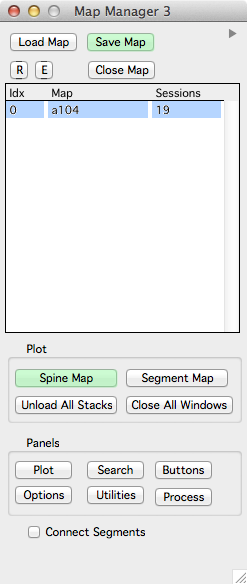
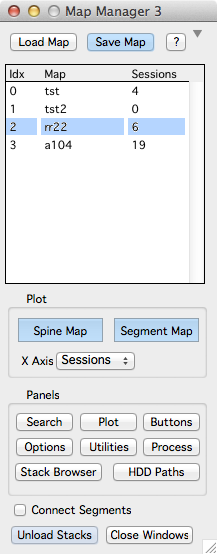
xxx

Changed region(s): [[0.0, 0.0, 1.0, 0.9819], [0.9401, 0.9819, 0.9954, 1.0]]

diff --git a/_site/making-a-map/index.html b/_site/making-a-map/index.html
@@ -86,6 +86,9 @@
             
                 <li class=nav-header>Interface Windows</li>
             
+            <li data-order="5"><a href="/mapmanager/hdd-paths">Hard Drive Paths</a></li>
+        
+            
             <li data-order="3"><a href="/mapmanager/stackdb-options-panel">Stack DB Options</a></li>
         
             
@@ -146,37 +149,58 @@
     </h3>
 </div>
 
-<p><IMG class="img-float-left" SRC="../images/mm3/mm3-main-panel.png" WIDTH="700"></p>
+<p><IMG class="img-float-left" SRC="../images/mm3/mm3-main-panel.png" WIDTH="600"></p>
 
 <div class="print-page-break"></div>
 
 <p>A map is a sequence of <a href="/mapmanager/stack/">stacks</a>. You create a map by appending stacks from the <a href="/mapmanager/stack-browser/">stack browser</a>. Once a map is made it can be saved, opened/loaded, annotated, and browsed.</p>
 
+<p>In the Map Manager 3 window, the list of open maps is on the left. When a map is selected, a list of sessions within the map is shown on the right.</p>
+
+<p>Double-click a session to open a <a href="/mapmanager/stack/">stack</a> window and begin adding <a href="/mapmanager/annotating-a-stack/">3D annotations</a>.</p>
+
 <h4 id="making-a-new-map">Making a new map</h4>
 
 <ol>
 <li>Create a new map with &#39;<span style="color:green">New Map</span>&#39;.</li>
-<li>Append a stack from the <a href="/mapmanager/stack-browser/">Stack Browser</a> with &#39;Append Stack To End&#39;.</li>
+<li>Append a stack from the <a href="/mapmanager/stack-browser/">Stack Browser</a> with &#39;Append Stack&#39;.</li>
 <li>Repeat #2 for each stack.</li>
 </ol>
 
 <h4 id="important">Important</h4>
 
 <ul>
-<li><p>When you make a new map with &#39;<span style="color:green">New Map</span>&#39;, the map is saved to a default hard-drive folder. Right-click on a map name and select &#39;Show On HDD&#39; to see the hard-drive folder where the map is saved. The default folder can be specified in a <a href="/mapmanager/user-files/">user file</a> file.</p>
+<li>When you make a new map with &#39;<span style="color:green">New Map</span>&#39;, the map is saved to a default hard-drive folder. Right-click on a map name and select &#39;Show On HDD&#39; to see the hard-drive folder where the map is saved. The default folder can be specified in a <a href="/mapmanager/user-files/">user file</a> file.
 
-<p>On Windows, the default folder is &#39;My Documents&#39;.</p>
-
-<p>On OSX, the default folder is &#39;Documents&#39;.</p></li>
-<li><p>As you import stacks from the <a href="/mapmanager/stack-browser/">stack browser</a> there are some rules that must be followed. You will be prompted when you break these rules.</p>
+<ul>
+<li>On Windows, the default folder is &#39;My Documents&#39;.</li>
+<li>On OSX, the default folder is &#39;Documents&#39;.</li>
+</ul></li>
+<li>As you import stacks from the <a href="/mapmanager/stack-browser/">stack browser</a> there are some rules that must be followed. You will be prompted when you break these rules.
 
 <ol>
 <li>The stack scale must be set. Set the scale of a <a href="/mapmanager/stack/">stack</a> in a stack window with shift+p.</li>
-<li>The stack must be loaded. Double click the stack in the <a href="/mapmanager/stack-browser/">stack browser</a> to open a stack.</li>
+<li>The stack must be loaded. Double click the stack in the <a href="/mapmanager/stack-browser/">stack browser</a> to load a stack.</li>
 </ol></li>
 </ul>
 
+<h4 id="general-usage">General usage</h4>
+
+<p><IMG class="img-float-left" SRC="../images/mm3/mm3-main-panel-small.png" WIDTH="200"></p>
+
+<p>Once a map is created and saved, the map maker 3 panel can be minimized with the disclosure triangle (at the top of the window near the help/? button).</p>
+
+<p>Online help is available with the &#39;?&#39; button.</p>
+
+<p>Right-click on a map name in the list for a contextual menu.</p>
+
+<p><IMG class="img-float-left" SRC="../images/mm3/mm3-main-panel-map-right-click.png" WIDTH="100"></p>
+
+<div class="print-page-break"></div>
+
 <h4 id="importing-a-bspine-map">Importing a bSpine map</h4>
+
+<p><IMG class="img-float-left" SRC="../images/mm3/mm3-import-bspine.png" WIDTH="275"></p>
 
 <p>Importing one by one</p>
 

diff --git a/_site/hdd-paths/index.html b/_site/hdd-paths/index.html
@@ -5,7 +5,7 @@
         <meta http-equiv="X-UA-Compatible" content="IE=edge,chrome=1">
         <meta name="viewport" content="width=device-width">
 
-        <title>Map Manager : Stack Browser</title>
+        <title>Map Manager : Hard Drive Paths</title>
         <meta name="description" content="">
 
         <link href="//netdna.bootstrapcdn.com/twitter-bootstrap/2.3.2/css/bootstrap-combined.no-icons.min.css" rel="stylesheet">
@@ -144,32 +144,36 @@
 
                     <div id=content class=span10>
                         <div class=page-header>
-    <h3>Stack Browser
+    <h3>Hard Drive Paths
         
     </h3>
 </div>
 
-<p><IMG class="img-float-left" SRC="../images/mm3/mm3-stack-browser.png" WIDTH="800"></p>
+<p><IMG class="img-float-left" SRC="../images/mm3/mm3-hdd-paths.png" WIDTH="600"></p>
 
 <div class="print-page-break"></div>
 
-<p>The stack browser provides an interface to load and browse directories of .tif <a href="/mapmanager/stack/">stacks</a>.</p>
+<h4 id="hard-drive-paths">Hard-drive paths</h4>
 
-<p>The original documentation is <a href="http://www.robertcudmore.org/maptracker/v2/stack-browser/">here</a></p>
+<ul>
+<li><p>Map Manager 3 Maps</p>
 
-<h3 id="loading-stacks">Loading stacks</h3>
+<p>Location to load and save maps.</p></li>
+<li><p>Raw Data</p>
 
-<p>Load ScanImage Directory.</p>
+<p>Location to load and save raw data (stacks).</p></li>
+<li><p>Analysis</p>
 
-<p>Load Generic Directory.</p>
+<p>Location to load and save map manager 3 analysis files.</p></li>
+<li><p>Fiji Application </p>
 
-<p>Drag and drop a single .tif stack from the hard-drive.</p>
+<p>Location of Fiji application. Used when importing a tracing from Fiji.</p></li>
+<li><p>User </p>
 
-<h3 id="browsing-loaded-data">Browsing loaded data</h3>
+<p>Load a user file to specify program defults. See <a href="/mapmanager/user-files/">user files</a>.</p></li>
+</ul>
 
-<p>Select your loaded directory on the left  and the loaded stacks will be shown on the right.</p>
-
-<p>Double click a stack in the list on the right to open a <a href="/mapmanager/stack/">stack</a> window.</p>
+<div class="print-page-break"></div>
 
 
 <div class="post-tags">
@@ -182,7 +186,7 @@
   
   
   
-    <a href="/mapmanager/tags/#Imaging core">Imaging core</a>
+    <a href="/mapmanager/tags/#Interface">Interface</a>
   
 
    <!--
@@ -191,7 +195,7 @@
 
    <!--
    <BR>
-   <a href="_posts/2015-04-19-stack-browser.pdf">print pdf</a>
+   <a href="_posts/2015-07-22-hdd-paths.pdf">print pdf</a>
    <BR>
    -->
     

diff --git a/_site/tags/index.html b/_site/tags/index.html
@@ -86,6 +86,9 @@
             
                 <li class=nav-header>Interface Windows</li>
             
+            <li data-order="5"><a href="/mapmanager/hdd-paths">Hard Drive Paths</a></li>
+        
+            
             <li data-order="3"><a href="/mapmanager/stackdb-options-panel">Stack DB Options</a></li>
         
             
@@ -166,7 +169,7 @@
     </a>
   </li>
 
-  <li style="font-size: 136%">
+  <li style="font-size: 153%">
     <a href="#Interface">
       Interface
     </a>
@@ -261,6 +264,10 @@
     
     <h3 id="#Interface">Interface</h3>
     <a name="Interface"></a>
+    
+    <article class="archive-item">
+      <h4><a href="/mapmanager/hdd-paths">Hard Drive Paths</a></h4>
+    </article>
     
     <article class="archive-item">
       <h4><a href="/mapmanager/stackdb-options-panel">Stack DB Options</a></h4>

diff --git a/_site/FItting-segments-in-Fiji copy/index.html b/_site/FItting-segments-in-Fiji copy/index.html
@@ -86,6 +86,9 @@
             
                 <li class=nav-header>Interface Windows</li>
             
+            <li data-order="5"><a href="/mapmanager/hdd-paths">Hard Drive Paths</a></li>
+        
+            
             <li data-order="3"><a href="/mapmanager/stackdb-options-panel">Stack DB Options</a></li>
         
             

diff --git a/_site/File-format/index.html b/_site/File-format/index.html
@@ -86,6 +86,9 @@
             
                 <li class=nav-header>Interface Windows</li>
             
+            <li data-order="5"><a href="/mapmanager/hdd-paths">Hard Drive Paths</a></li>
+        
+            
             <li data-order="3"><a href="/mapmanager/stackdb-options-panel">Stack DB Options</a></li>
         
             

diff --git a/_site/annotating-a-stack/index.html b/_site/annotating-a-stack/index.html
@@ -86,6 +86,9 @@
             
                 <li class=nav-header>Interface Windows</li>
             
+            <li data-order="5"><a href="/mapmanager/hdd-paths">Hard Drive Paths</a></li>
+        
+            
             <li data-order="3"><a href="/mapmanager/stackdb-options-panel">Stack DB Options</a></li>
         
             

diff --git a/_site/database-overview/index.html b/_site/database-overview/index.html
@@ -86,6 +86,9 @@
             
                 <li class=nav-header>Interface Windows</li>
             
+            <li data-order="5"><a href="/mapmanager/hdd-paths">Hard Drive Paths</a></li>
+        
+            
             <li data-order="3"><a href="/mapmanager/stackdb-options-panel">Stack DB Options</a></li>
         
             

diff --git a/_site/index.html b/_site/index.html
@@ -86,6 +86,9 @@
             
                 <li class=nav-header>Interface Windows</li>
             
+            <li data-order="5"><a href="/mapmanager/hdd-paths">Hard Drive Paths</a></li>
+        
+            
             <li data-order="3"><a href="/mapmanager/stackdb-options-panel">Stack DB Options</a></li>
         
             

diff --git a/_site/main-panel/index.html b/_site/main-panel/index.html
@@ -86,6 +86,9 @@
             
                 <li class=nav-header>Interface Windows</li>
             
+            <li data-order="5"><a href="/mapmanager/hdd-paths">Hard Drive Paths</a></li>
+        
+            
             <li data-order="3"><a href="/mapmanager/stackdb-options-panel">Stack DB Options</a></li>
         
             

diff --git a/_site/map-plot/index.html b/_site/map-plot/index.html
@@ -86,6 +86,9 @@
             
                 <li class=nav-header>Interface Windows</li>
             
+            <li data-order="5"><a href="/mapmanager/hdd-paths">Hard Drive Paths</a></li>
+        
+            
             <li data-order="3"><a href="/mapmanager/stackdb-options-panel">Stack DB Options</a></li>
         
             

diff --git a/_site/plot-panel/index.html b/_site/plot-panel/index.html
@@ -86,6 +86,9 @@
             
                 <li class=nav-header>Interface Windows</li>
             
+            <li data-order="5"><a href="/mapmanager/hdd-paths">Hard Drive Paths</a></li>
+        
+            
             <li data-order="3"><a href="/mapmanager/stackdb-options-panel">Stack DB Options</a></li>
         
             

diff --git a/_site/process-panel/index.html b/_site/process-panel/index.html
@@ -86,6 +86,9 @@
             
                 <li class=nav-header>Interface Windows</li>
             
+            <li data-order="5"><a href="/mapmanager/hdd-paths">Hard Drive Paths</a></li>
+        
+            
             <li data-order="3"><a href="/mapmanager/stackdb-options-panel">Stack DB Options</a></li>
         
             
